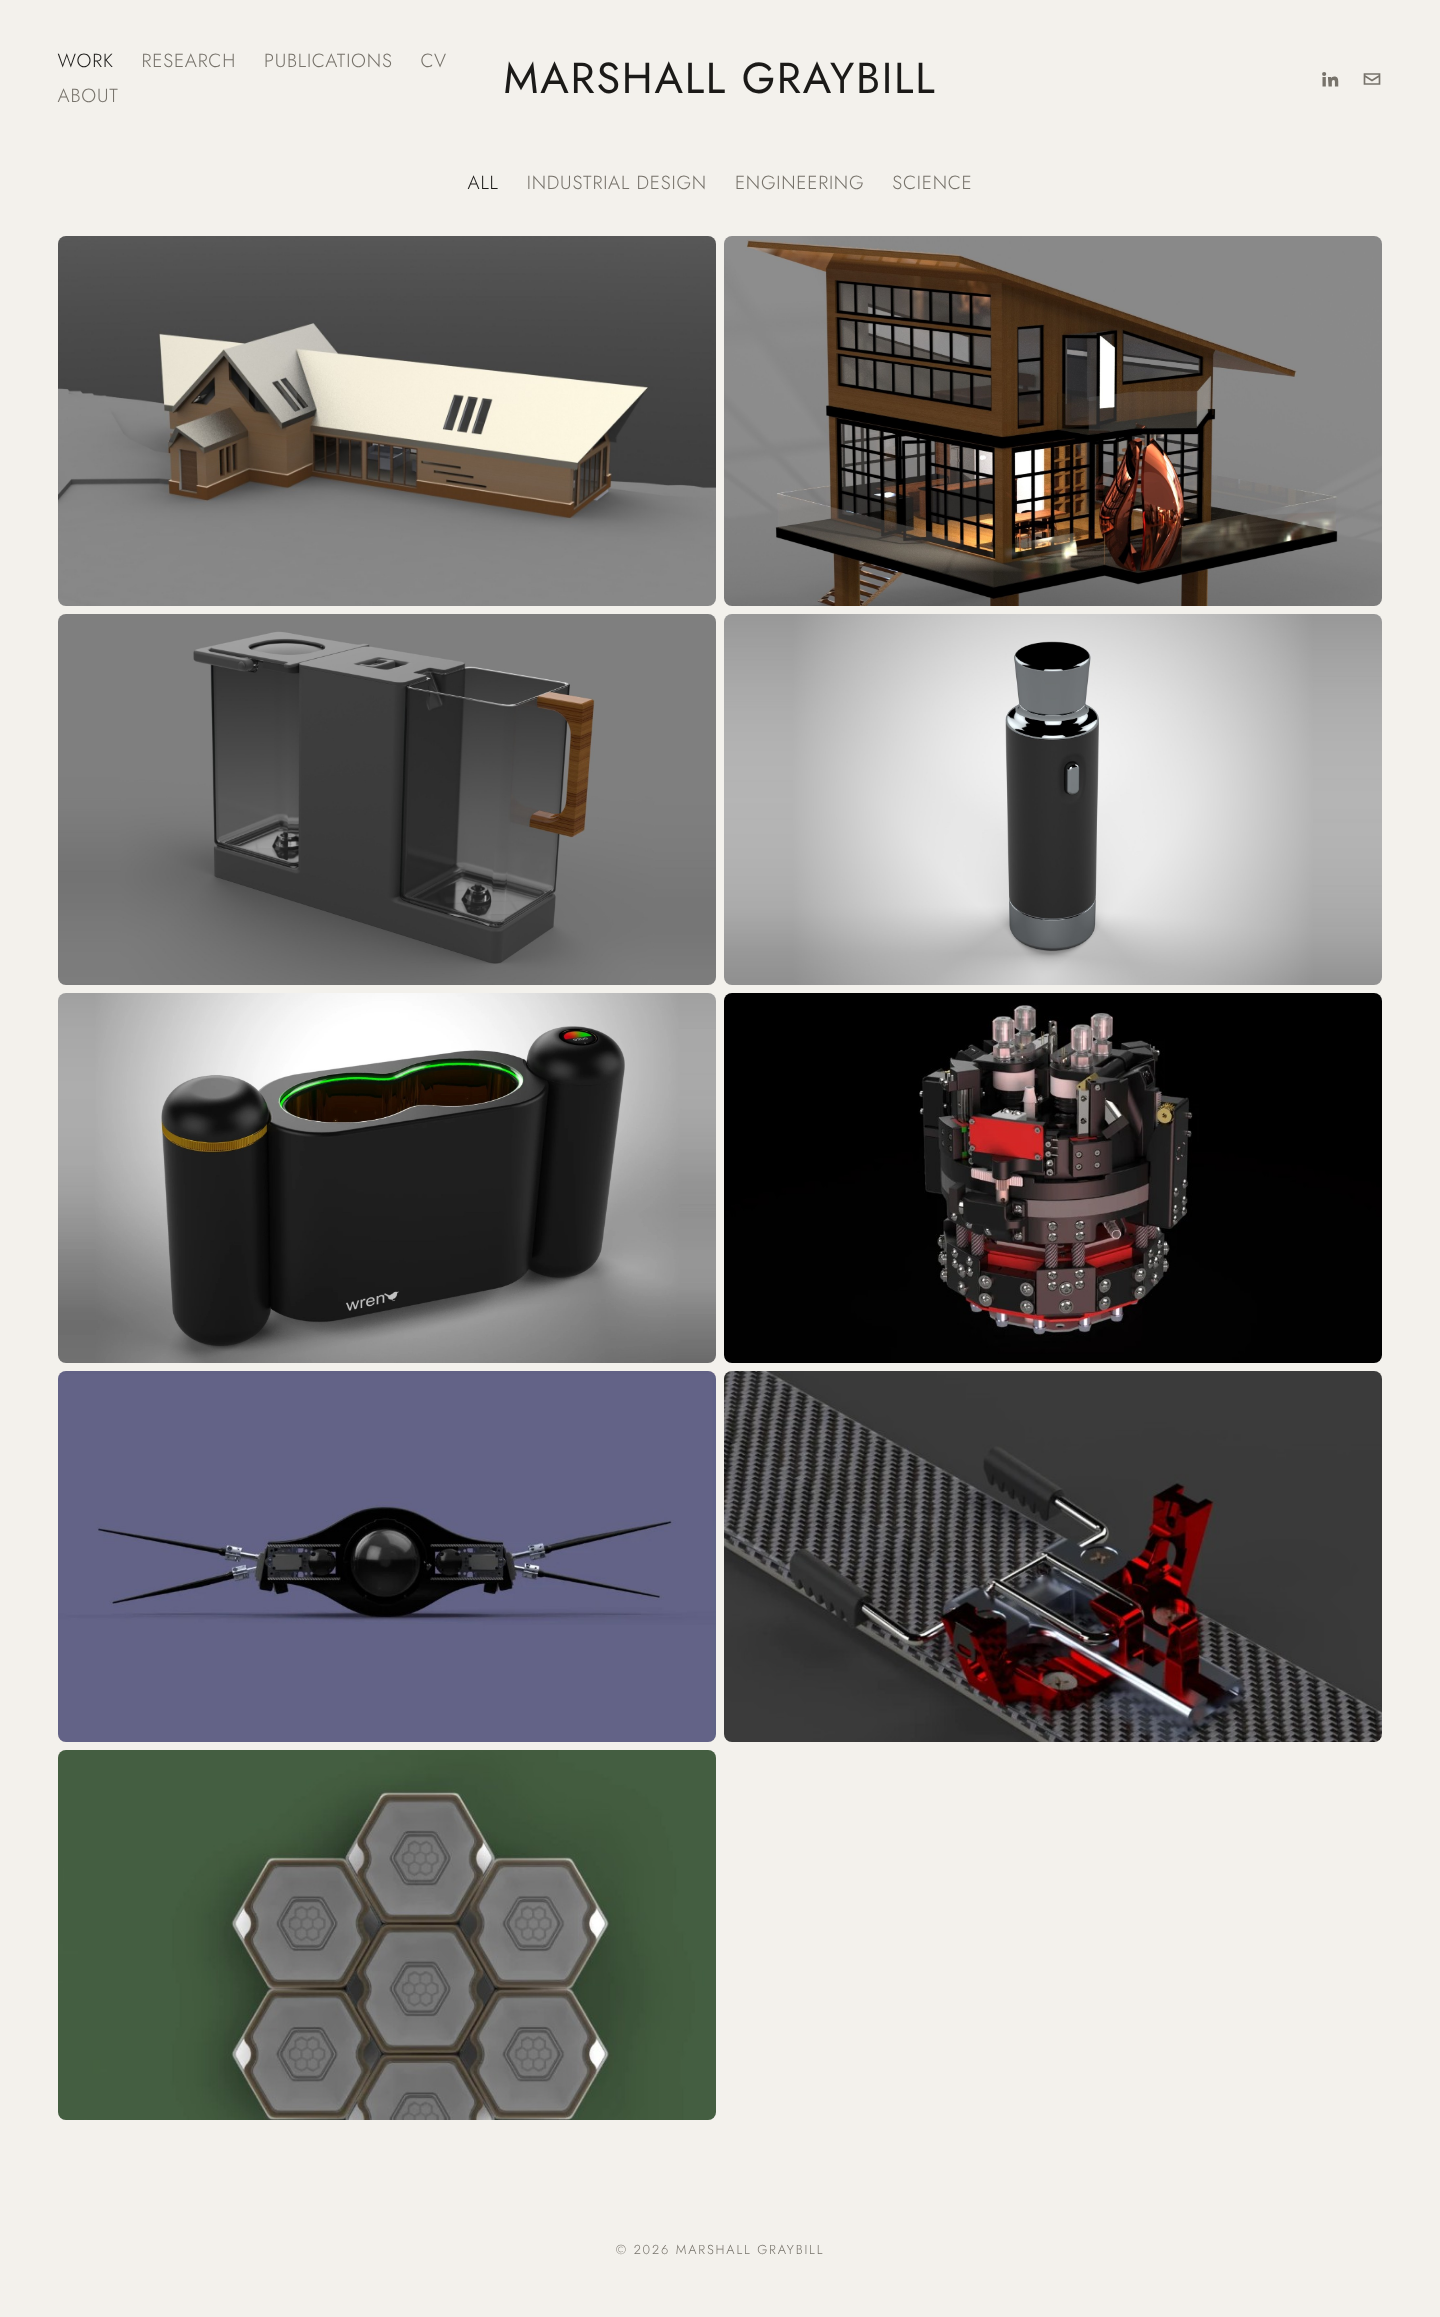
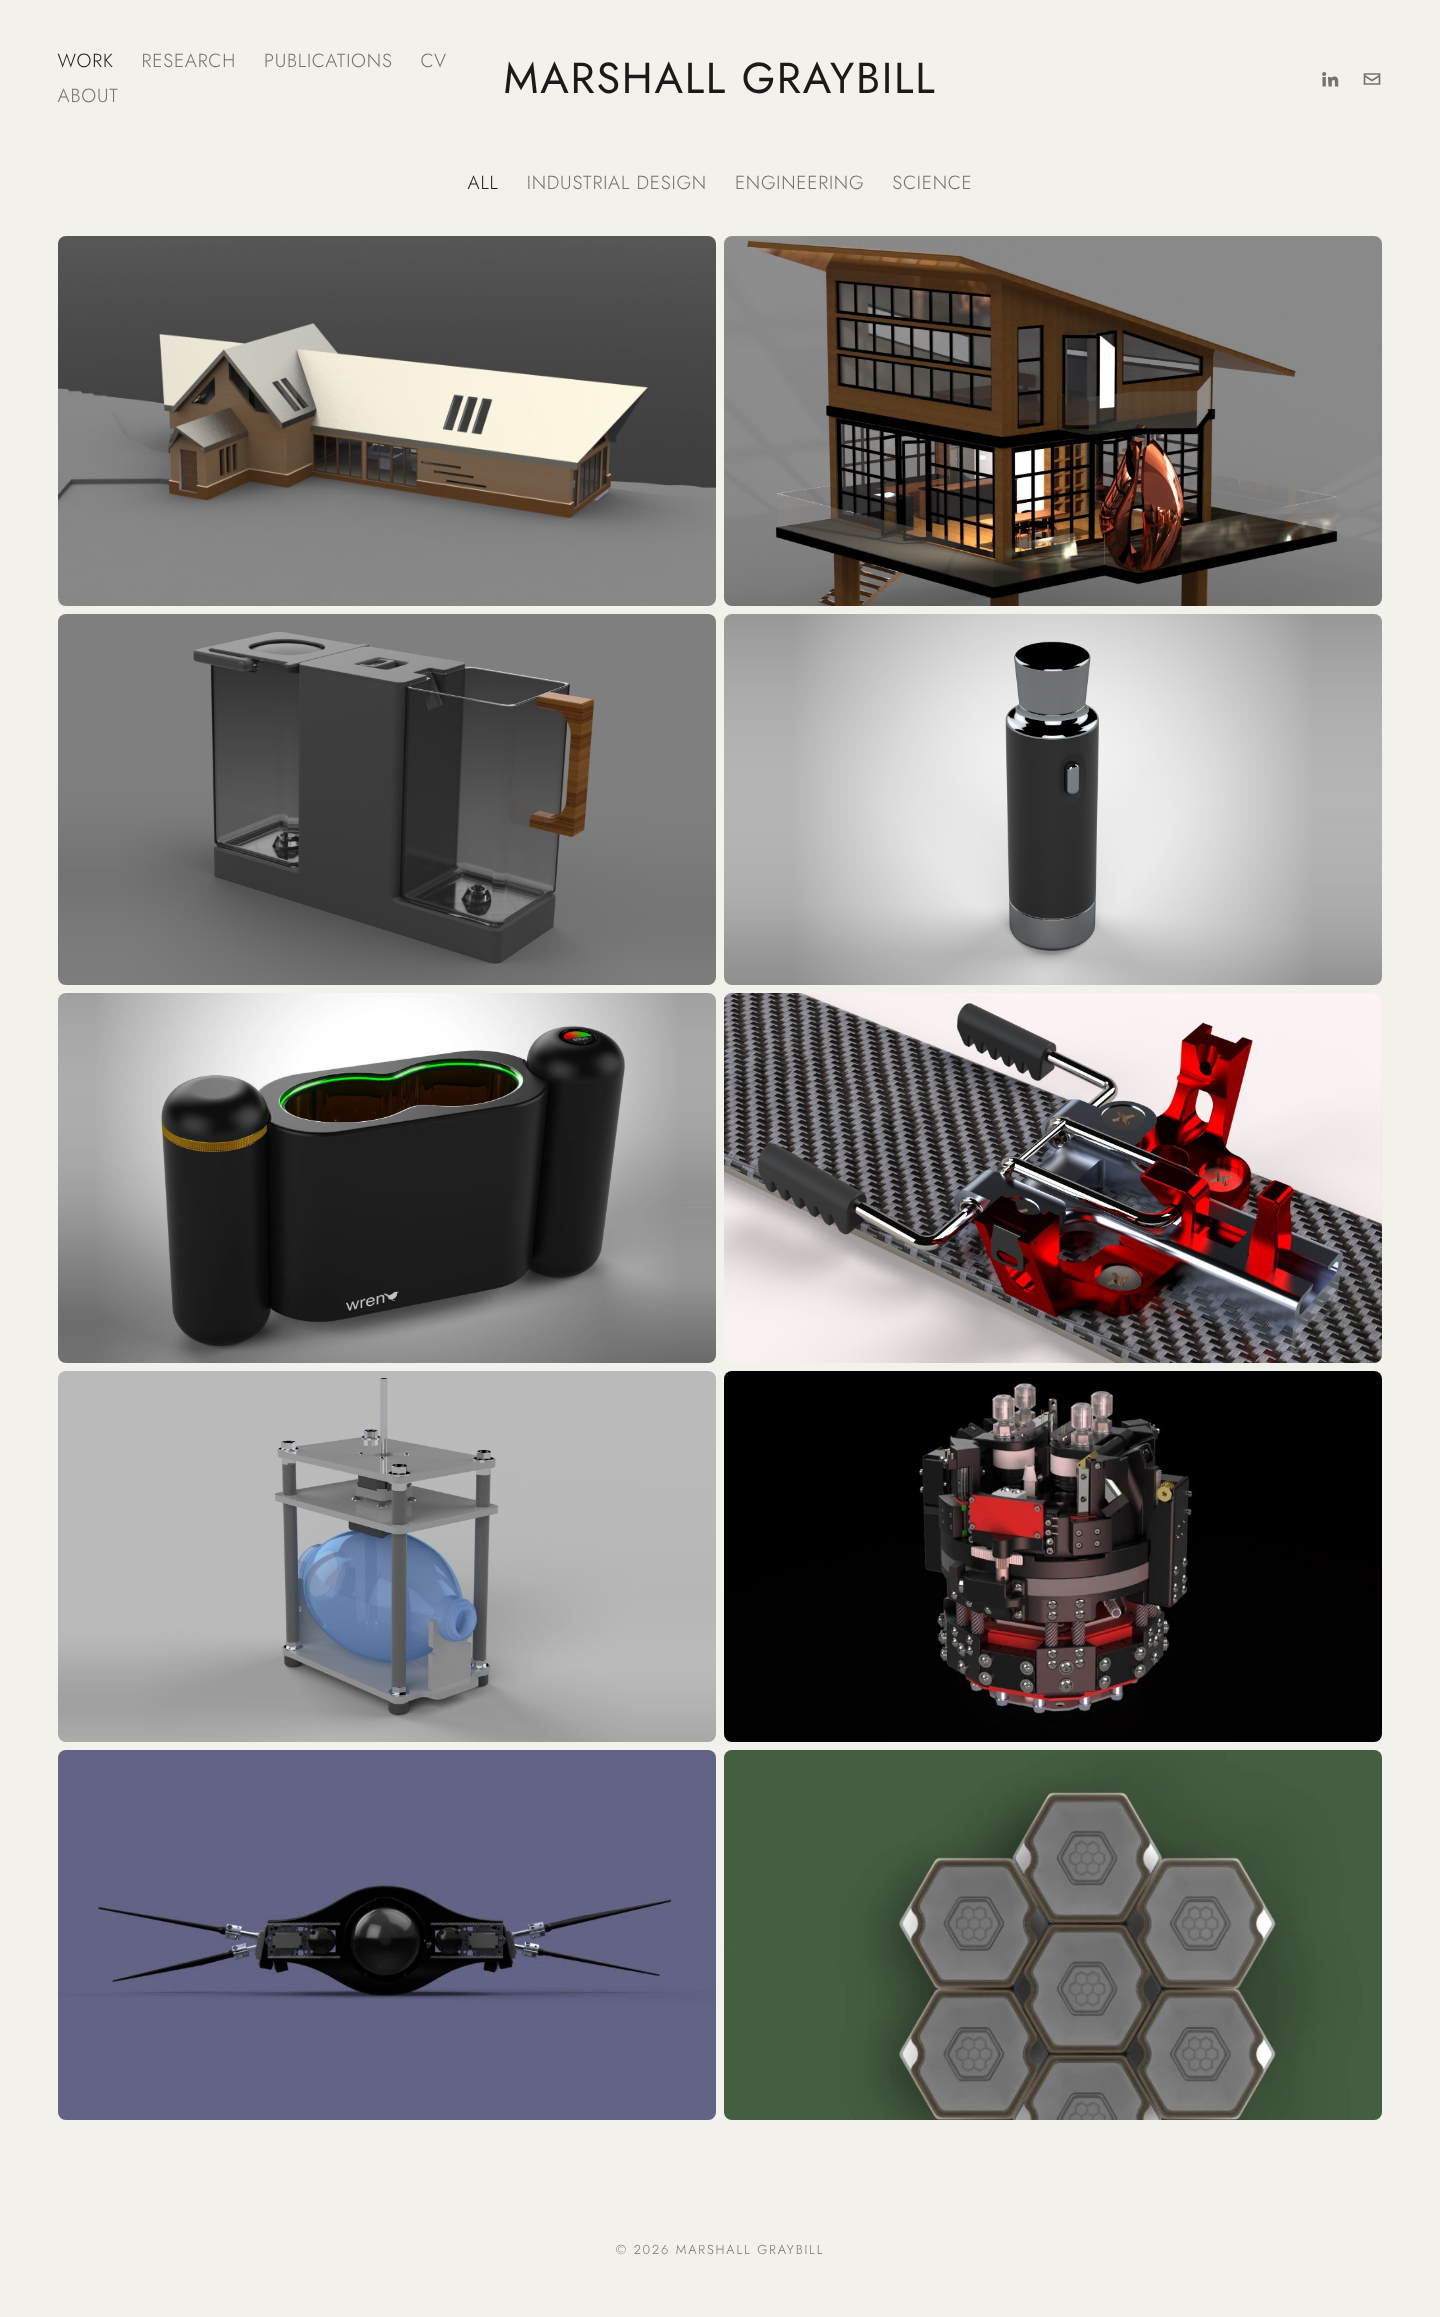
Add Bag Valve Mask Ventilator project page
Claude-Session: https://claude.ai/code/session_01FRyJPBebUtKmxdzujR9oGm

diff --git a/projects/bvm-ventilator.html b/projects/bvm-ventilator.html
@@ -1,0 +1,59 @@
+<!doctype html>
+<html lang="en">
+<head>
+  <meta charset="utf-8">
+  <meta name="viewport" content="width=device-width, initial-scale=1">
+  <title>Bag Valve Mask Ventilator · Marshall Graybill</title>
+  <meta name="description" content="An affordable, easy-to-assemble emergency ventilator built around a bag valve mask, designed for use in developing nations during COVID-19.">
+  <link rel="preconnect" href="https://fonts.googleapis.com">
+  <link rel="preconnect" href="https://fonts.gstatic.com" crossorigin>
+  <link href="https://fonts.googleapis.com/css2?family=Jost:wght@300;400&display=swap" rel="stylesheet">
+  <link rel="stylesheet" href="../css/style.css">
+</head>
+<body>
+
+<header class="site-header">
+  <nav class="nav" aria-label="Main">
+    <a class="on" href="../index.html">Work</a>
+    <a href="../research.html">Research</a>
+    <a href="../publications.html">Publications</a>
+    <a href="../cv.html">CV</a>
+    <a href="../about.html">About</a>
+  </nav>
+  <a class="name" href="../index.html">Marshall Graybill</a>
+  <div class="icons">
+    <a href="#" aria-label="LinkedIn"><svg viewBox="0 0 24 24" fill="currentColor"><path d="M4.98 3.5a2.5 2.5 0 1 1 0 5 2.5 2.5 0 0 1 0-5zM3 9.5h4V21H3zM9.5 9.5h3.8v1.6h.06c.53-1 1.83-2.06 3.77-2.06 4.03 0 4.77 2.65 4.77 6.1V21h-4v-5.1c0-1.22-.02-2.79-1.7-2.79-1.7 0-1.96 1.33-1.96 2.7V21h-4z"/></svg></a>
+    <a href="mailto:" aria-label="Email"><svg viewBox="0 0 24 24" fill="currentColor"><path d="M2 5h20v14H2zm2 2v.5l8 5 8-5V7zm0 2.86V17h16V9.86l-8 5z"/></svg></a>
+  </div>
+</header>
+
+<main class="project">
+  <section class="project-head">
+    <div class="kicker">Engineering · Medical Device</div>
+    <h1>Bag Valve Mask Ventilator</h1>
+    <p><em>Emergency breathing relief for COVID-19 patients.</em></p>
+    <p>Our goal was to design an affordable, easy-to-assemble emergency ventilator for use in developing nations. To achieve this, we utilized a self-inflating bag resuscitator (BVM) as the air pump, with a linear actuator to compress the BVM. Key components of the design are produced using 3D printing or a laser cutter.</p>
+    <p>To enhance efficiency and durability, we integrated thrust bearings between the motor shaft and the compression mechanism. This addition reduces friction from the linear actuator's lead screw rotation, minimizing wear on contact surfaces and increasing the system's longevity.</p>
+    <ul class="facts">
+      <li>Team <b>Spencer White · Evan Kirk</b></li>
+      <li>Drive <b>Linear actuator</b></li>
+      <li>Fabrication <b>3D printing · Laser cutting</b></li>
+    </ul>
+  </section>
+
+  <div class="shots">
+    <div class="row">
+      <figure><img src="../images/projects/bvm-ventilator/three-quarter.jpg" alt="Ventilator frame with a blue self-inflating bag held between laser-cut plates, with a linear actuator mounted above it" loading="lazy"><figcaption>Three-quarter</figcaption></figure>
+      <figure><img src="../images/projects/bvm-ventilator/front.jpg" alt="Front view of the ventilator showing the actuator and compression block centered over the bag" loading="lazy"><figcaption>Front</figcaption></figure>
+    </div>
+  </div>
+
+  <nav class="pager" aria-label="Projects">
+    <a href="p49-ski-brake.html">← P49 Ski Brake</a>
+    <a href="../index.html">All work →</a>
+  </nav>
+</main>
+
+<footer class="site-footer">© Marshall Graybill</footer>
+</body>
+</html>

diff --git a/index.html b/index.html
@@ -70,6 +70,11 @@
     <div class="cap"><span>Engineering · Product Design</span><h3>P49 Ski Brake</h3></div>
   </a>
 
+  <a class="tile" href="projects/bvm-ventilator.html" data-tags="eng">
+    <img src="images/projects/bvm-ventilator/cover.jpg" alt="Bag valve mask ventilator render">
+    <div class="cap"><span>Engineering · Medical Device</span><h3>BVM Ventilator</h3></div>
+  </a>
+
   <!-- Placeholders below: images cropped from the old site until full-size files are added -->
   <a class="tile" href="#" data-tags="eng sci">
     <img src="images/projects/placeholder/mechanism.jpg" alt="">

diff --git a/projects/p49-ski-brake.html b/projects/p49-ski-brake.html
@@ -51,7 +51,7 @@
 
   <nav class="pager" aria-label="Projects">
     <a href="wren.html">← Wren</a>
-    <a href="../index.html">All work →</a>
+    <a href="bvm-ventilator.html">Next: BVM Ventilator →</a>
   </nav>
 </main>
 
